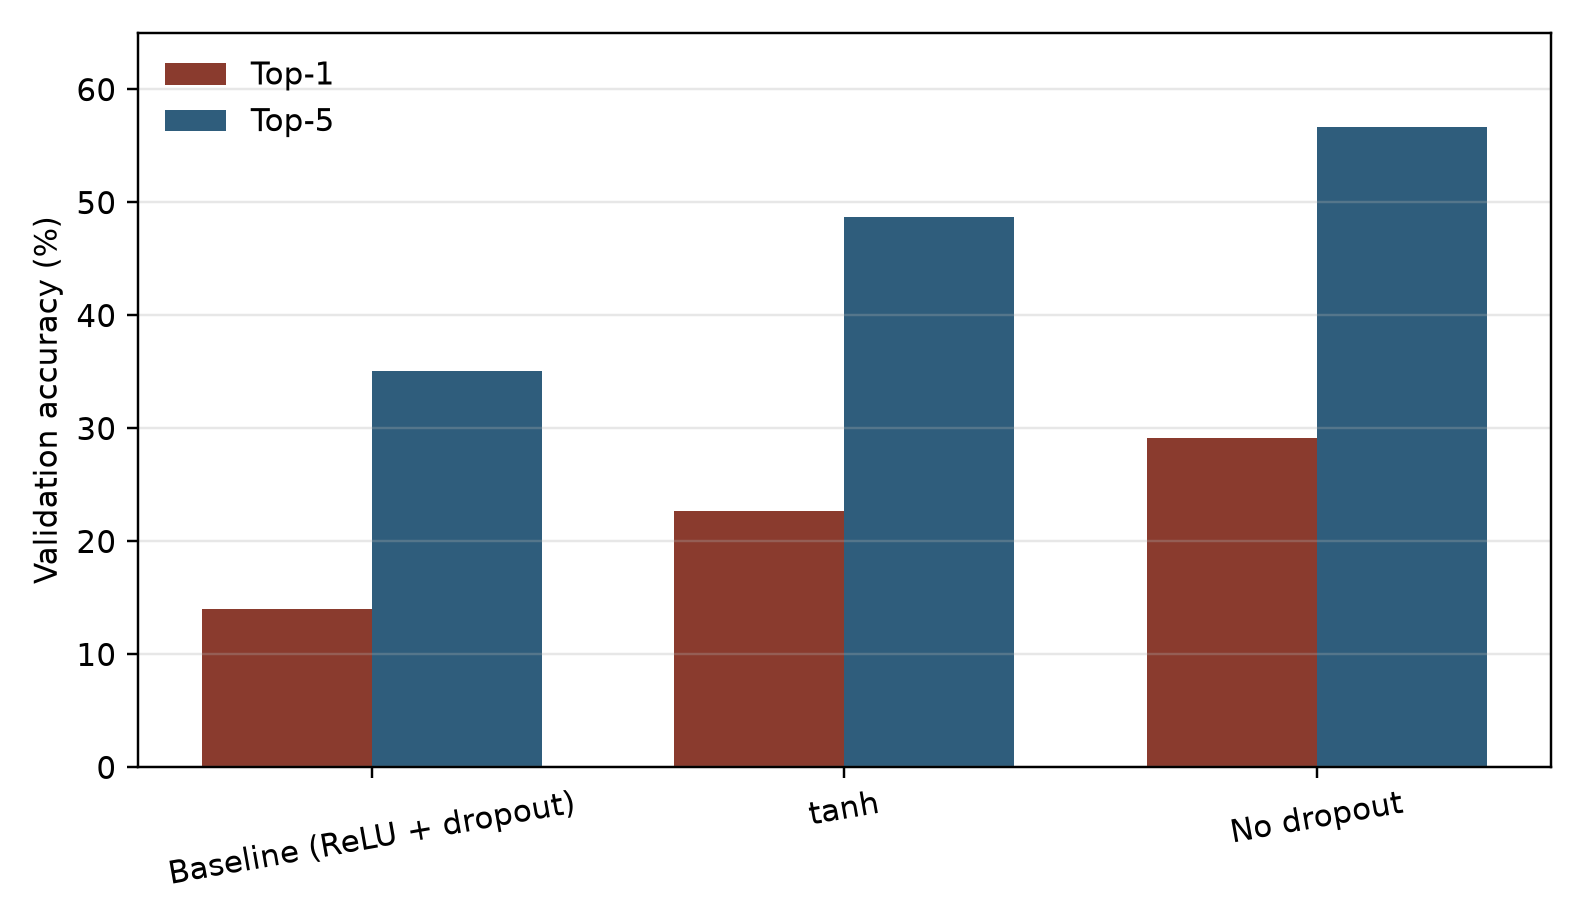
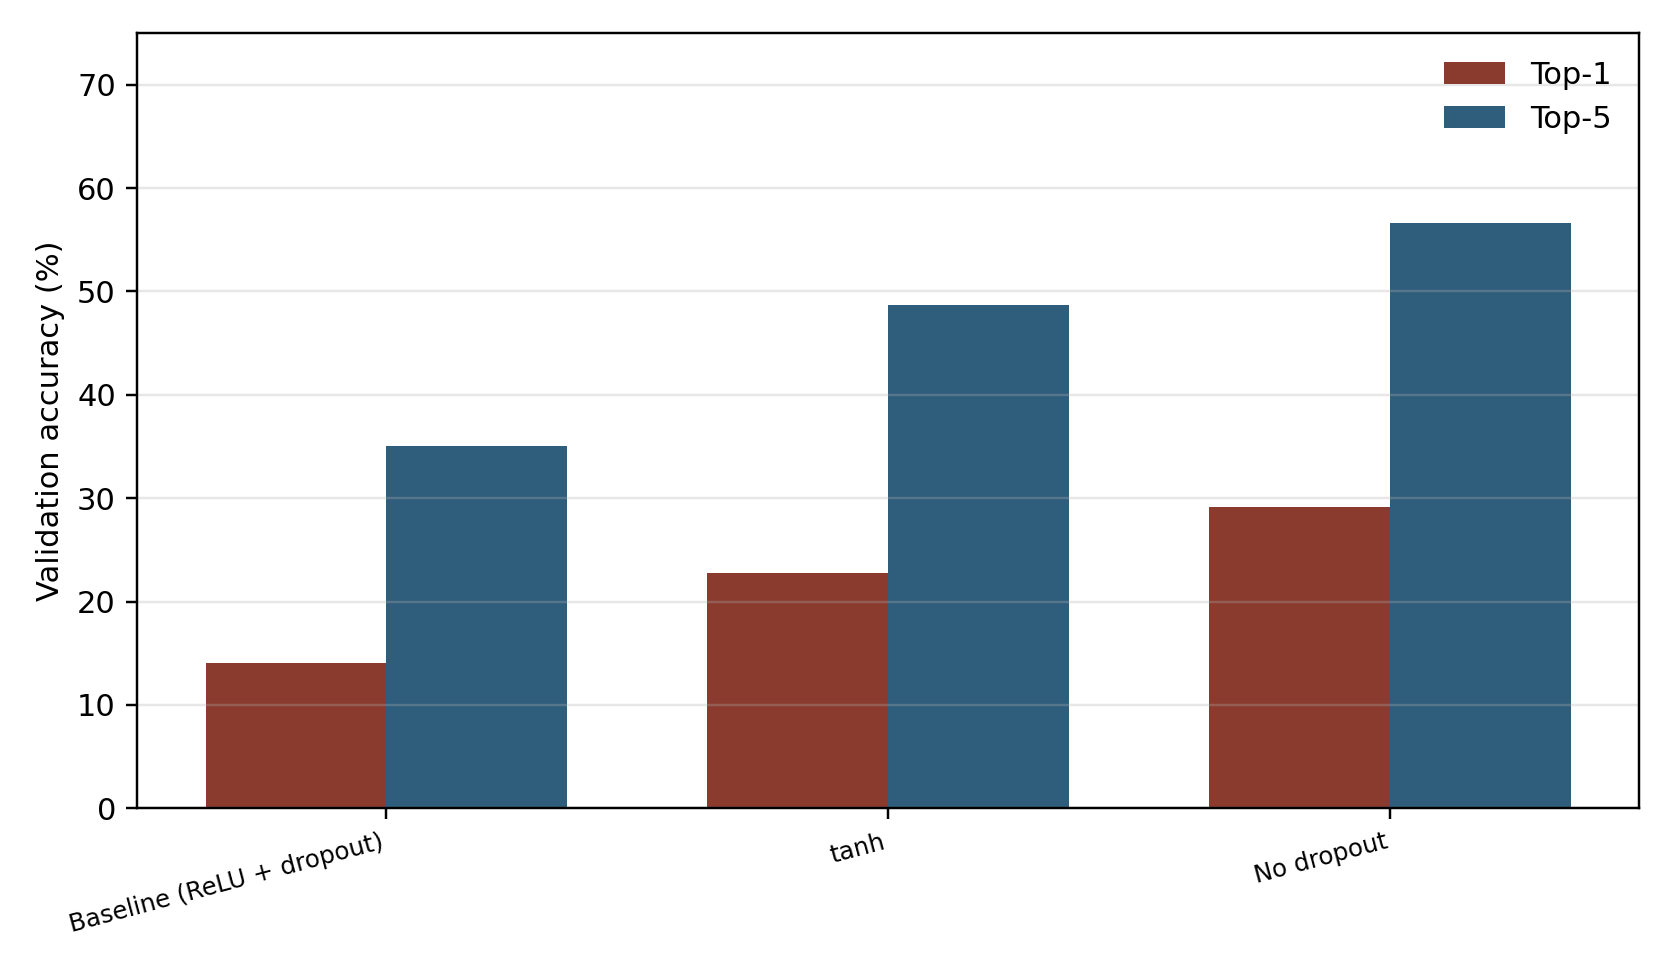
Add 90-epoch results and figures

diff --git a/scripts/plot_metrics.py b/scripts/plot_metrics.py
@@ -1,14 +1,9 @@
 #!/usr/bin/env python3
-"""Plot validation curves and a final accuracy bar chart from metrics.csv files.
-
-Expected files:
-    results/baseline_metrics.csv
-    results/tanh_metrics.csv
-    results/no_dropout_metrics.csv
+"""Plot validation curves and final accuracy bars from metrics.csv files.
 
 Run:
-    pip install matplotlib
-    python scripts/plot_metrics.py --results-dir results
+    python scripts/plot_metrics.py --results-dir results --set short
+    python scripts/plot_metrics.py --results-dir results --set long
 """
 
 from __future__ import annotations
@@ -23,10 +18,17 @@ matplotlib.use("Agg")
 import matplotlib.pyplot as plt
 
 
-RUNS = [
+SHORT_RUNS = [
     ("Baseline (ReLU + dropout)", "baseline_metrics.csv", "#8a3b2e"),
     ("tanh", "tanh_metrics.csv", "#2f5d7c"),
     ("No dropout", "no_dropout_metrics.csv", "#3f6b4f"),
+]
+
+LONG_RUNS = [
+    ("Baseline (dropout 0.5)", "long_baseline_metrics.csv", "#8a3b2e"),
+    ("dropout 0.25", "long_dropout025_metrics.csv", "#8a6a2f"),
+    ("tanh (dropout 0.5)", "long_tanh_metrics.csv", "#2f5d7c"),
+    ("No dropout", "long_no_dropout_metrics.csv", "#3f6b4f"),
 ]
 
 
@@ -35,9 +37,9 @@ def read_rows(path: Path) -> list[dict]:
         return list(csv.DictReader(handle))
 
 
-def plot_curve(results_dir: Path, value: str, ylabel: str, out_name: str) -> None:
-    plt.figure(figsize=(7.2, 4.2))
-    for label, filename, color in RUNS:
+def plot_curve(results_dir: Path, runs, value: str, ylabel: str, out_name: str) -> None:
+    plt.figure(figsize=(7.4, 4.3))
+    for label, filename, color in runs:
         path = results_dir / filename
         if not path.is_file():
             print(f"skip missing: {path}")
@@ -50,15 +52,15 @@ def plot_curve(results_dir: Path, value: str, ylabel: str, out_name: str) -> Non
     plt.xlabel("Epoch")
     plt.ylabel(ylabel)
     plt.grid(alpha=0.3)
-    plt.legend(frameon=False)
+    plt.legend(frameon=False, fontsize=8)
     plt.tight_layout()
     plt.savefig(results_dir / "figures" / out_name, dpi=220)
     plt.close()
 
 
-def plot_final_bar(results_dir: Path) -> None:
+def plot_final_bar(results_dir: Path, runs, out_name: str) -> None:
     labels, top1, top5 = [], [], []
-    for label, filename, _ in RUNS:
+    for label, filename, _ in runs:
         path = results_dir / filename
         if not path.is_file():
             continue
@@ -73,31 +75,39 @@ def plot_final_bar(results_dir: Path) -> None:
 
     x = range(len(labels))
     width = 0.36
-    plt.figure(figsize=(7.2, 4.2))
+    plt.figure(figsize=(7.6, 4.4))
     plt.bar([i - width / 2 for i in x], top1, width, label="Top-1", color="#8a3b2e")
     plt.bar([i + width / 2 for i in x], top5, width, label="Top-5", color="#2f5d7c")
-    plt.xticks(list(x), labels, rotation=10)
+    plt.xticks(list(x), labels, rotation=15, ha="right", fontsize=8)
     plt.ylabel("Validation accuracy (%)")
-    plt.ylim(0, 65)
+    plt.ylim(0, 75)
     plt.legend(frameon=False)
     plt.grid(axis="y", alpha=0.3)
     plt.tight_layout()
-    plt.savefig(results_dir / "figures" / "final_accuracy.png", dpi=220)
+    plt.savefig(results_dir / "figures" / out_name, dpi=220)
     plt.close()
 
 
 def main() -> None:
     parser = argparse.ArgumentParser()
     parser.add_argument("--results-dir", default="results")
+    parser.add_argument("--set", choices=["short", "long"], default="short")
     args = parser.parse_args()
 
     results_dir = Path(args.results_dir).expanduser()
     (results_dir / "figures").mkdir(parents=True, exist_ok=True)
 
-    plot_curve(results_dir, "val_top1", "Validation top-1 (%)", "val_top1.png")
-    plot_curve(results_dir, "val_loss", "Validation loss", "val_loss.png")
-    plot_curve(results_dir, "train_loss", "Training loss", "train_loss.png")
-    plot_final_bar(results_dir)
+    if args.set == "long":
+        runs = LONG_RUNS
+        prefix = "long_"
+    else:
+        runs = SHORT_RUNS
+        prefix = ""
+
+    plot_curve(results_dir, runs, "val_top1", "Validation top-1 (%)", f"{prefix}val_top1.png")
+    plot_curve(results_dir, runs, "val_loss", "Validation loss", f"{prefix}val_loss.png")
+    plot_curve(results_dir, runs, "train_loss", "Training loss", f"{prefix}train_loss.png")
+    plot_final_bar(results_dir, runs, f"{prefix}final_accuracy.png")
 
     print(f"Figures written to {results_dir / 'figures'}")
 

diff --git a/REPRODUCTION_NOTES.md b/REPRODUCTION_NOTES.md
@@ -25,18 +25,28 @@
 | Baseline | 14.06% | 35.04% | ~197s | ReLU + dropout + augmentation |
 | tanh | 22.72% | 48.70% | ~215s | same recipe, tanh |
 | No dropout | 29.18% | 56.64% | ~214s | dropout = 0 |
-| Baseline, 90 ep | 28.34% | 56.06% | ~206s | 90-epoch extension |
-| No dropout, 90 ep | 41.94% | 69.68% | ~208s | 90-epoch extension |
+| Baseline, 90 ep | 28.34% | 56.06% | ~206s | dropout 0.5 |
+| tanh, 90 ep | 33.12% | 60.70% | ~194s | tanh + dropout 0.5 |
+| dropout 0.25, 90 ep | 35.68% | 63.98% | ~194s | ReLU + dropout 0.25 |
+| No dropout, 90 ep | 41.94% | 69.68% | ~208s | dropout 0.0 |
 
 **Key finding:** both ablations outperformed the baseline. At this scale
 (ImageNet-100, 30 epochs), dropout 0.5 appears too strong and causes
 underfitting; tanh + dropout also beats ReLU + dropout. The 90-epoch extension
-confirms the dropout result: no-dropout reaches 41.94% top-1 versus 28.34% for
-the baseline, a 13.6-point gap. The 90-epoch baseline is still slightly below
-the 30-epoch no-dropout run, so dropout underfits even with longer training.
-This is a single-seed result and does not directly contradict the paper's full
-ImageNet-1k claims, which used 1.2M images and 1,000 classes. It shows that the
-paper's regularization and activation claims are regime-dependent.
+confirms a clear dropout dose-response:
+
+```text
+dropout 0.5  → 28.34%
+dropout 0.25 → 35.68%
+dropout 0.0  → 41.94%
+```
+
+The 90-epoch baseline is still slightly below the 30-epoch no-dropout run
+(29.18%), so dropout 0.5 underfits even with longer training. tanh + dropout 0.5
+(33.12%) beats ReLU + dropout 0.5 (28.34%) but remains below the lower-dropout
+runs. This is a single-seed result and does not directly contradict the paper's
+full ImageNet-1k claims, which used 1.2M images and 1,000 classes. It shows that
+the paper's regularization and activation claims are regime-dependent.
 
 ## Deviations from the paper
 

diff --git a/README.md b/README.md
@@ -25,17 +25,27 @@ matched the paper's ImageNet-1k numbers.
 | Ours: baseline | ImageNet-100 | 30 | **14.06%** | **35.04%** | ReLU + dropout, 1× RTX 4080 Super |
 | Ours: tanh | ImageNet-100 | 30 | **22.72%** | **48.70%** | same recipe, tanh |
 | Ours: no dropout | ImageNet-100 | 30 | **29.18%** | **56.64%** | dropout = 0 |
-| Ours: baseline, 90 ep | ImageNet-100 | 90 | **28.34%** | **56.06%** | 90-epoch extension |
-| Ours: no dropout, 90 ep | ImageNet-100 | 90 | **41.94%** | **69.68%** | 90-epoch extension |
+| Ours: baseline, 90 ep | ImageNet-100 | 90 | **28.34%** | **56.06%** | dropout 0.5 |
+| Ours: tanh, 90 ep | ImageNet-100 | 90 | **33.12%** | **60.70%** | tanh + dropout 0.5 |
+| Ours: dropout 0.25, 90 ep | ImageNet-100 | 90 | **35.68%** | **63.98%** | ReLU + dropout 0.25 |
+| Ours: no dropout, 90 ep | ImageNet-100 | 90 | **41.94%** | **69.68%** | dropout 0.0 |
 
 Paper numbers are accuracy derived from the reported error rates. **Do not compare
 absolute numbers across different datasets.** The useful comparison is the
 **relative trend** between our runs.
 
-At 90 epochs, the no-dropout model still beats the baseline by **13.6 points**
-top-1. In fact, the 90-epoch baseline (28.34%) is still slightly below the
-**30-epoch** no-dropout run (29.18%). Dropout 0.5 underfits at this scale even
-with a longer schedule.
+At 90 epochs, dropout shows a clear **dose-response**:
+
+```text
+dropout 0.5  → 28.34%
+dropout 0.25 → 35.68%
+dropout 0.0  → 41.94%
+```
+
+Less dropout is better at this scale. The 90-epoch baseline (28.34%) is still
+slightly below the **30-epoch** no-dropout run (29.18%), so dropout 0.5 underfits
+even with a longer schedule. tanh + dropout 0.5 (33.12%) also beats ReLU +
+dropout 0.5 (28.34%), but remains below the lower-dropout runs.
 
 ## Repository layout
 
